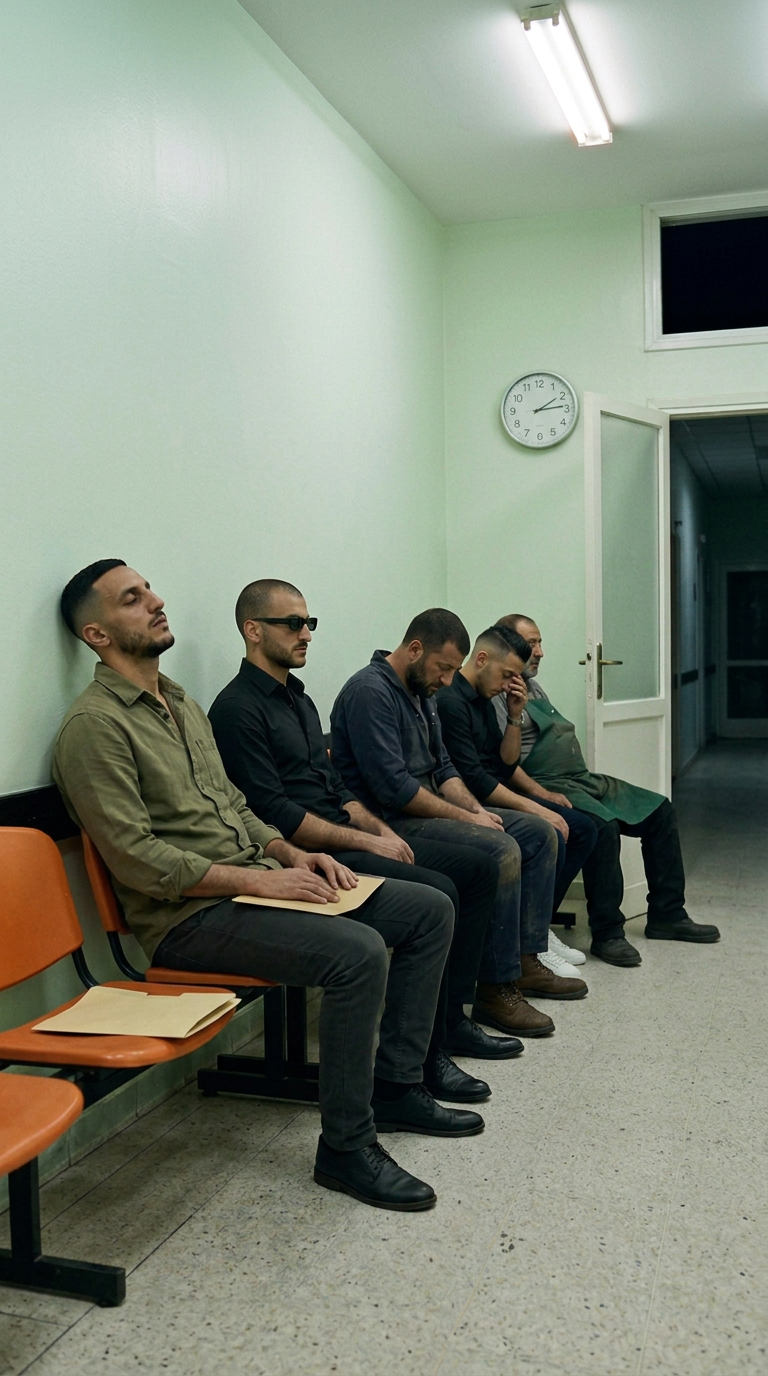
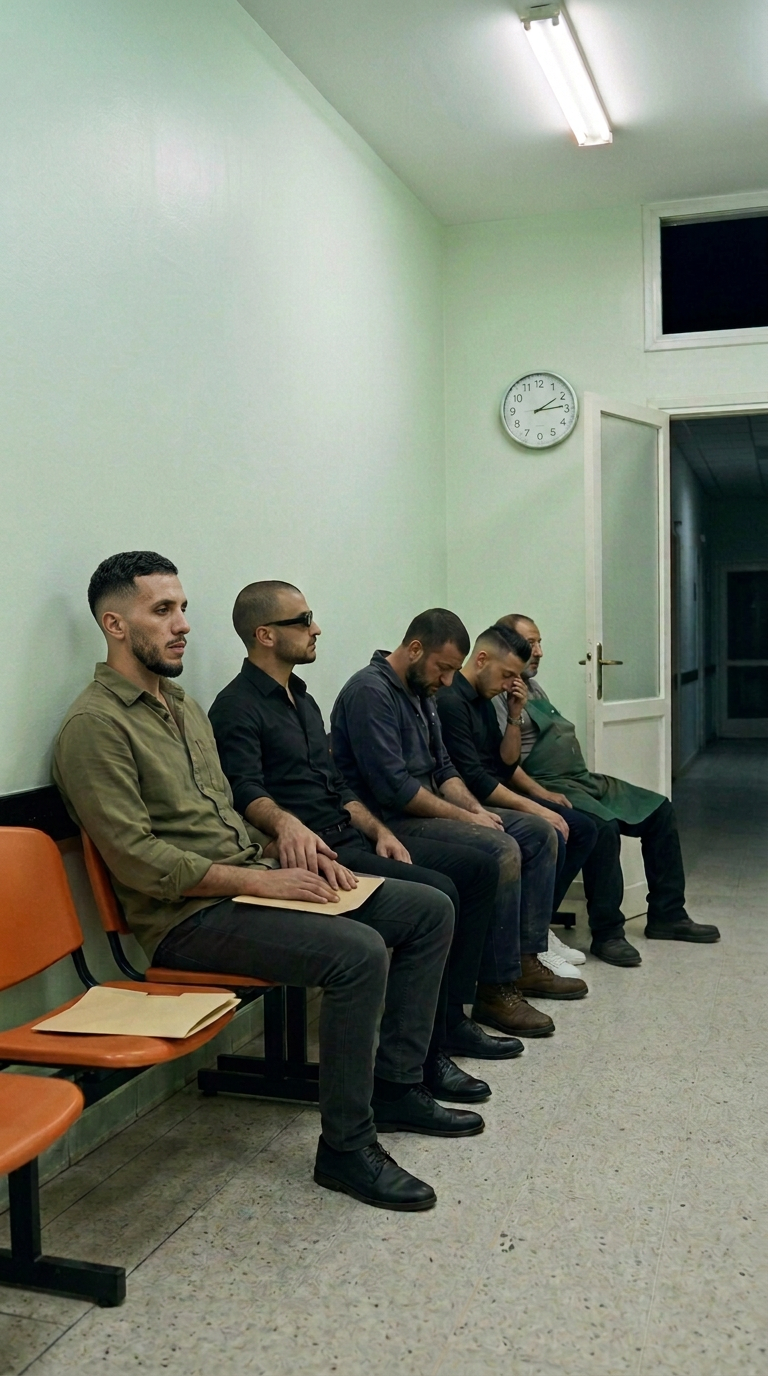
Scene 12 finale upgrade: 100% real Amin V2 face + Youssef patting thigh -> Doctor entering with good news & all 5 rising

diff --git a/SOCIAL_DRAMA/EL_SHEDDA_TBEYEN_ERDJAL/03_FLOW_PROMPTS/PROMPT_14_SCENE_12_OMNI_POLICY_SAFE.md b/SOCIAL_DRAMA/EL_SHEDDA_TBEYEN_ERDJAL/03_FLOW_PROMPTS/PROMPT_14_SCENE_12_OMNI_POLICY_SAFE.md
@@ -1,16 +1,18 @@
 # 🎬 PROMPT 14 — SCENE 12 (OMNI 1.1 FLASH FIXED · FINAL SCENE)
-## THE WAIT / END — 02:20 AM Vigil ("الشدة تبيّن الرجال")
+## THE WAIT & GOOD NEWS — "ما تعمرش راسك خويا… الشدة تبيّن الرجال"
 
 | البند | الإعداد المعتمد |
 |---|---|
 | **Model** | `Gemini Omni 1.1 Flash` (Google Flow) |
 | **Mode** | `Video > Frames > First and last` |
 | **Aspect / Duration** | `9:16` · `8 seconds` · `24fps` |
-| **Audio** | **Native Algerian Darija Whisper ON** · **ZERO Background Music** |
+| **Audio** | **Native Algerian Darija Speech ON** · **ZERO Background Music** |
 | **FIRST FRAME** | `02_SCENES/SCENE_12/S12a_THE_WAIT_FIXED.png` |
 | **LAST FRAME** | `02_SCENES/SCENE_12/S12b_END_FIXED.png` |
 
-> ✅ **مشهد الختام (`02:20` ليلاً):** نفس قاعة الانتظار المعتمدة من المشهدين 09 و11 (`SET LOCK`: صف الكراسي البرتقالية على الجدار الأيسر، الساعة الليلية `02:20` وباب العيادة المفتوح على الجدار الخلفي تحت مصباح نيون واحد). أمين في الكرسي الأمامي الأيسر يستند برأسه مغمض العينين والظرف البني المغلق فوق حجره والملف الطبي على الكرسي الفارغ بجانبه، بينما يمد يوسف يده اليمنى بهدوء ليضعها على ساعد أمين الأيسر ويهمس بجملة عنوان الفيلم الختامية: **«يا أمين… الشدة تبيّن الرجال.»**
+> ✅ **مشهد الختام المعتمد (`02:20` ليلاً):**
+> - **الإطار الأول (`S12a`):** الأصدقاء الخمسة جالسون على صف الكراسي البرتقالية (أمين بملامحه الحقيقية `100%` مستيقظ ينتظر بقلق)، ويوسف يربّت بيده اليمنى على فخذ أمين ليطمئنه ويقول له: **«ما تعمرش راسك خويا… الشدة تبيّن الرجال.»**
+> - **الإطار الأخير (`S12b`):** يدخل **الدكتور** من باب العيادة المفتوح ليُبشّرهم بنجاح عملية مريم، فينهض أمين وأصدقاؤه الأربعة واقفين أمام الكراسي ينتظرون سماع البشارة بلهفة وأمل.
 
 ---
 
@@ -22,18 +24,19 @@ Single continuous, unbroken shot with a completely static, locked-off tripod cam
 FRAME AND SET LOCK:
 Animate smoothly in one unbroken take from <FIRST_FRAME> to <LAST_FRAME>. Keep the blank pale-green hospital walls (zero posters, zero text), the round analog wall clock on the back wall reading 02:20, the open white-framed frosted-glass clinic door leading to the dark hospital corridor on the back-right, the single overhead fluorescent tube, the speckled terrazzo floor, and the row of orange plastic waiting chairs along the left wall 100% locked in place.
 
-CHARACTER AND GAZE LOCK:
-Medium-wide shot angled down the row of orange plastic chairs along the left wall; the camera is an invisible observer — strictly zero eye contact with the lens by anyone.
-- FOREGROUND-LEFT CHAIR (beside the foreground empty orange chair holding the plain beige manila medical folder): AMIN (worn olive-green long-sleeve button-up shirt, dark charcoal trousers, dark shoes, short curly black hair on top with clean mid-high taper skin-fade, short trimmed black chin beard) resting the back of his head peacefully against the pale-green wall with his eyes gently closed in quiet exhaustion, both hands resting lightly on the completely sealed plain brown kraft A4 envelope lying flat across his lap (zero text, zero visible banknotes).
-- SECOND CHAIR BESIDE AMIN: YOUSSEF (short dark buzz cut, black rectangular sunglasses kept permanently on over his eyes, black rolled-sleeve button-up shirt, black trousers, black shoes) sitting upright and awake in silent brotherly vigil.
-- BACK THREE CHAIRS ALONG THE LEFT WALL (exhausted late-night stillness): RAMI (dark-blue mechanic coveralls, dark-brown work boots) bowed forward looking down at the floor; KARIM (clean-shaven, spiky fade hair, black shirt, white sneakers) resting his forehead in his left hand with eyes closed; UNCLE HAMZA near the back wall (balding older man with short grey beard, grey polo, dark-green work apron) sleeping quietly with his head leaning against the wall.
+CHARACTER, FACE, AND GAZE LOCK:
+Medium-wide group shot inside the waiting room; the camera is an invisible observer — strictly zero eye contact with the lens by anyone.
+- AMIN ON FOREGROUND LEFT: Exact real unfiltered Algerian father from <FIRST_FRAME> and <LAST_FRAME> (elongated oval face, natural prominent nose, short natural curly black hair on top with clean mid-high taper skin-fade, bare skin gap under lower lip, sparse cheek hairs, short ~1 cm closely-trimmed black chin beard, worn olive-green long-sleeve button-up shirt, dark charcoal trousers, black shoes; zero facial reshaping or smoothing).
+- THE FOUR BROTHERS BESIDE AMIN: YOUSSEF (short dark buzz cut, black rectangular sunglasses kept permanently on over his eyes, black rolled-sleeve shirt, black trousers, black shoes), RAMI (dark-blue mechanic coveralls, brown work boots), KARIM (clean-shaven, spiky fade hair, black shirt, white sneakers), and UNCLE HAMZA (balding older man with short grey beard, grey polo, dark-green work apron).
+- THE DOCTOR (entering from the open clinic doorway on the back-right): Senior Algerian surgeon in his 50s with salt-and-pepper hair combed back, thin metal eyeglasses, short salt-and-pepper beard, white medical lab coat over dark navy undershirt, stethoscope around neck, dark grey trousers, and black leather shoes.
 
 TIMING AND PHYSICAL ACTION (8 SECONDS, SINGLE CONTINUOUS SHOT):
-[0.0s–4.2s] Complete vocal silence starting from <FIRST_FRAME> — only quiet late-night hospital room tone, soft clock ticking, and slow exhausted breathing — as Amin, Rami, Karim, and Uncle Hamza remain completely still, while Youssef slowly lifts his right hand from his own thigh across a few inches to rest gently and reassuringly on Amin's left forearm/wrist just above the sealed brown envelope, smoothly settling into <LAST_FRAME>.
-[4.2s–7.2s] Keeping his right hand resting gently on Amin's forearm while Amin continues resting peacefully with his eyes closed, ONLY Youssef speaks in a low, quiet, deeply brotherly Algerian Darija whisper:
-"يا أمين… الشدة تبيّن الرجال."
-[7.2s–8.0s] Complete stillness and quiet 02:20 AM hospital room tone holding the exact final tableau of <LAST_FRAME>.
+[0.0s–3.8s] Starting from <FIRST_FRAME>, all five men sit along the row of orange waiting chairs on the left wall in anxious late-night vigil. Youssef gently pats his right hand reassuringly twice on Amin's left thigh/knee to comfort him as ONLY Youssef speaks in a warm, steady, brotherly Algerian Darija male voice:
+"ما تعمرش راسك خويا… الشدة تبيّن الرجال."
+[3.8s–7.4s] Through the open frosted-glass clinic doorway on the back-right, the senior Doctor steps calmly into the waiting room and turns to face the men. Seeing the Doctor enter, Amin immediately picks up his beige medical folder from the foreground chair with his right hand (keeping the sealed brown kraft A4 envelope in his left hand) as Amin, Youssef, Rami, Karim, and Uncle Hamza all rise eagerly to their feet in front of their orange chairs facing right toward the Doctor, smoothly settling into <LAST_FRAME>. Raising his right hand in a warm, reassuring gesture, ONLY the Doctor speaks in a calm, relieved Algerian Darija male voice:
+"الحمد لله يا جماعة… العملية تاع مريم نجحت وراهي بخير."
+[7.4s–8.0s] Quiet collective breath of deep relief as Amin and his four brothers stand facing the Doctor in the exact hopeful final tableau of <LAST_FRAME>.
 
 SOUND DESIGN:
-Quiet late-night hospital fluorescent hum, faint wall-clock tick, soft slow breathing, gentle touch of hand on sleeve, and Youssef's natural whispered Algerian Darija final line with subtle profile lip-sync. Strictly no background music, no swells, no smiling, no subtitles, no wall text, and no watermarks.
+Natural Algerian Darija speech with accurate profile lip-sync, gentle reassuring pat of Youssef's hand on Amin's trouser thigh, crisp rustle of clothes, folders, and shoes rising from plastic chairs onto the terrazzo floor, calm footsteps of the Doctor entering, soft late-night hospital fluorescent hum. Strictly no background music, no subtitles, no wall text, and no watermarks.
 ```
